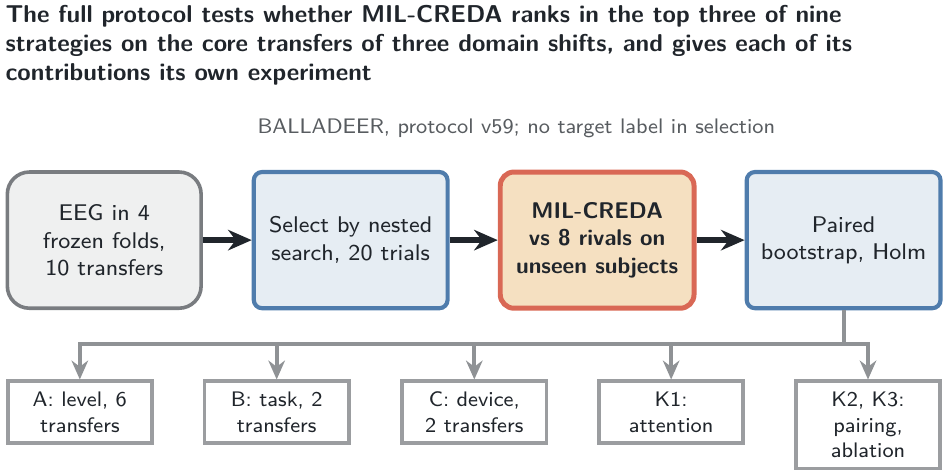
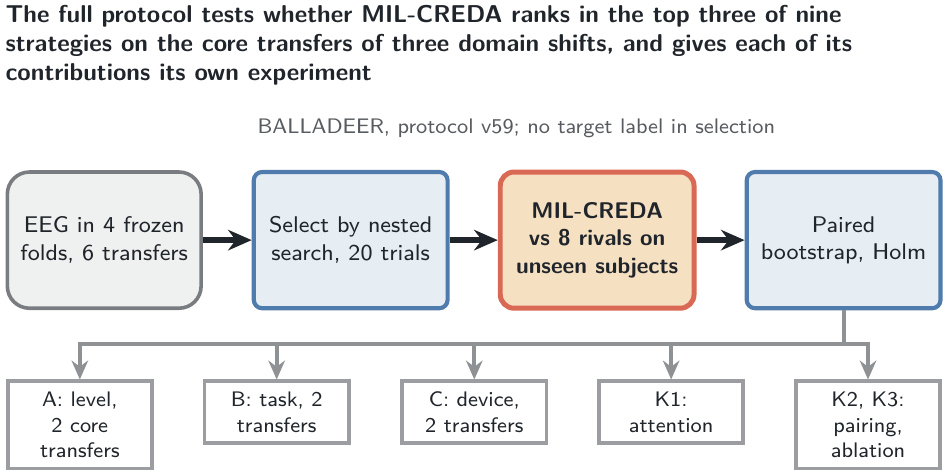
chore(experiments): diagram of the six transfers run, validated by the operator

Changed region(s): [[0.0306, 0.4118, 0.2139, 0.5882], [0.0, 0.8824, 0.1834, 1.0], [0.0306, 0.8235, 0.1528, 0.8529]]

diff --git a/MIL-CREDA-EEG/diagrams/experiments.tex b/MIL-CREDA-EEG/diagrams/experiments.tex
@@ -40,11 +40,11 @@
 \begin{tikzpicture}
 % figure claim: The full protocol tests whether MIL-CREDA ranks in the top three of nine strategies on the core transfers of three domain shifts, and gives each of its contributions its own experiment
 % printed width: 345.0pt of a 10pt body (main.tex:fallback); fonts {'claim': 8.8, 'spine': 8.2, 'note': 7.6}
-\node[ps state, text width=2.18cm, minimum height=1.73cm, anchor=center] (data) at (1.26,0.00) {EEG in 4 frozen folds, 10 transfers};
+\node[ps state, text width=2.18cm, minimum height=1.73cm, anchor=center] (data) at (1.26,0.00) {EEG in 4 frozen folds, 6 transfers};
 \node[ps operator, text width=2.18cm, minimum height=1.73cm, anchor=center] (search) at (4.39,0.00) {Select by nested search, 20 trials};
 \node[ps focal, text width=2.18cm, minimum height=1.73cm, anchor=center] (compare) at (7.52,0.00) {MIL-CREDA vs 8 rivals on unseen subjects};
 \node[ps operator, text width=2.18cm, minimum height=1.73cm, anchor=center] (tests) at (10.65,0.00) {Paired bootstrap, Holm};
-\node[ps evidence, text width=1.55cm, anchor=north] (a) at (0.95,-1.77) {A: level, 6 transfers};
+\node[ps evidence, text width=1.55cm, anchor=north] (a) at (0.95,-1.77) {A: level, 2 core transfers};
 \node[ps evidence, text width=1.55cm, anchor=north] (b) at (3.45,-1.77) {B: task, 2 transfers};
 \node[ps evidence, text width=1.55cm, anchor=north] (c) at (5.96,-1.77) {C: device, 2 transfers};
 \node[ps evidence, text width=1.55cm, anchor=north] (k1) at (8.46,-1.77) {K1: attention};
